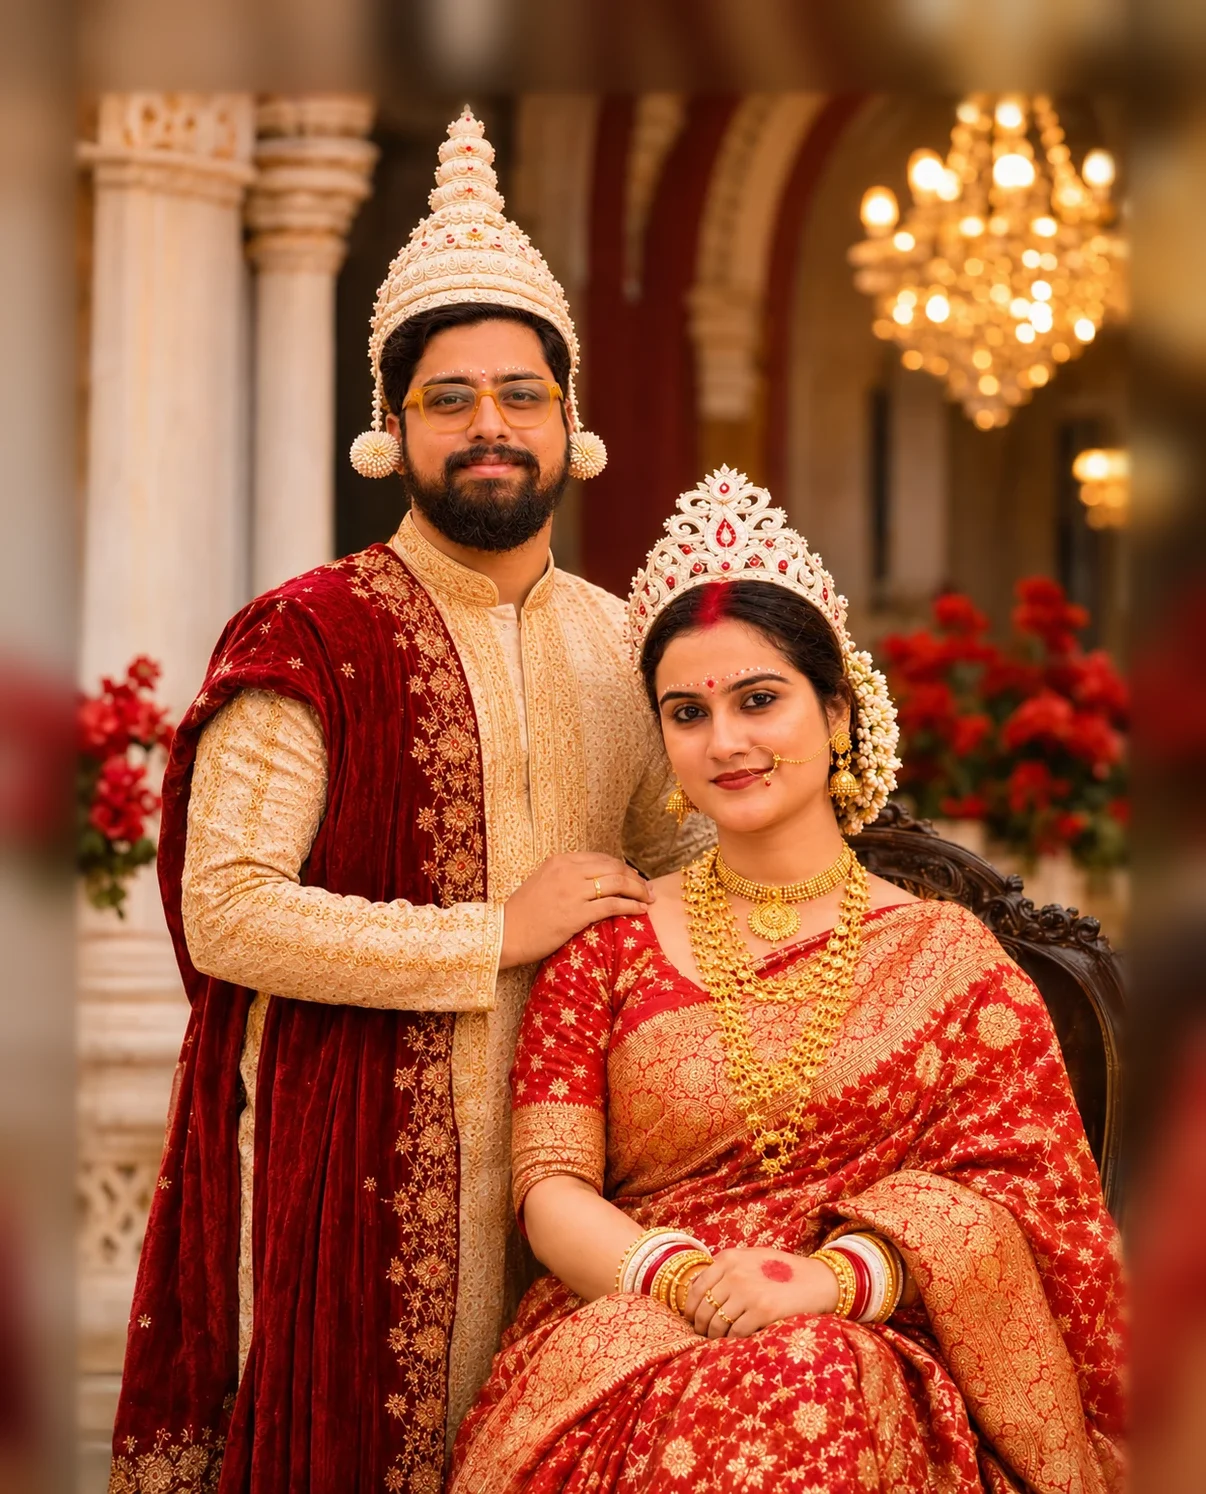
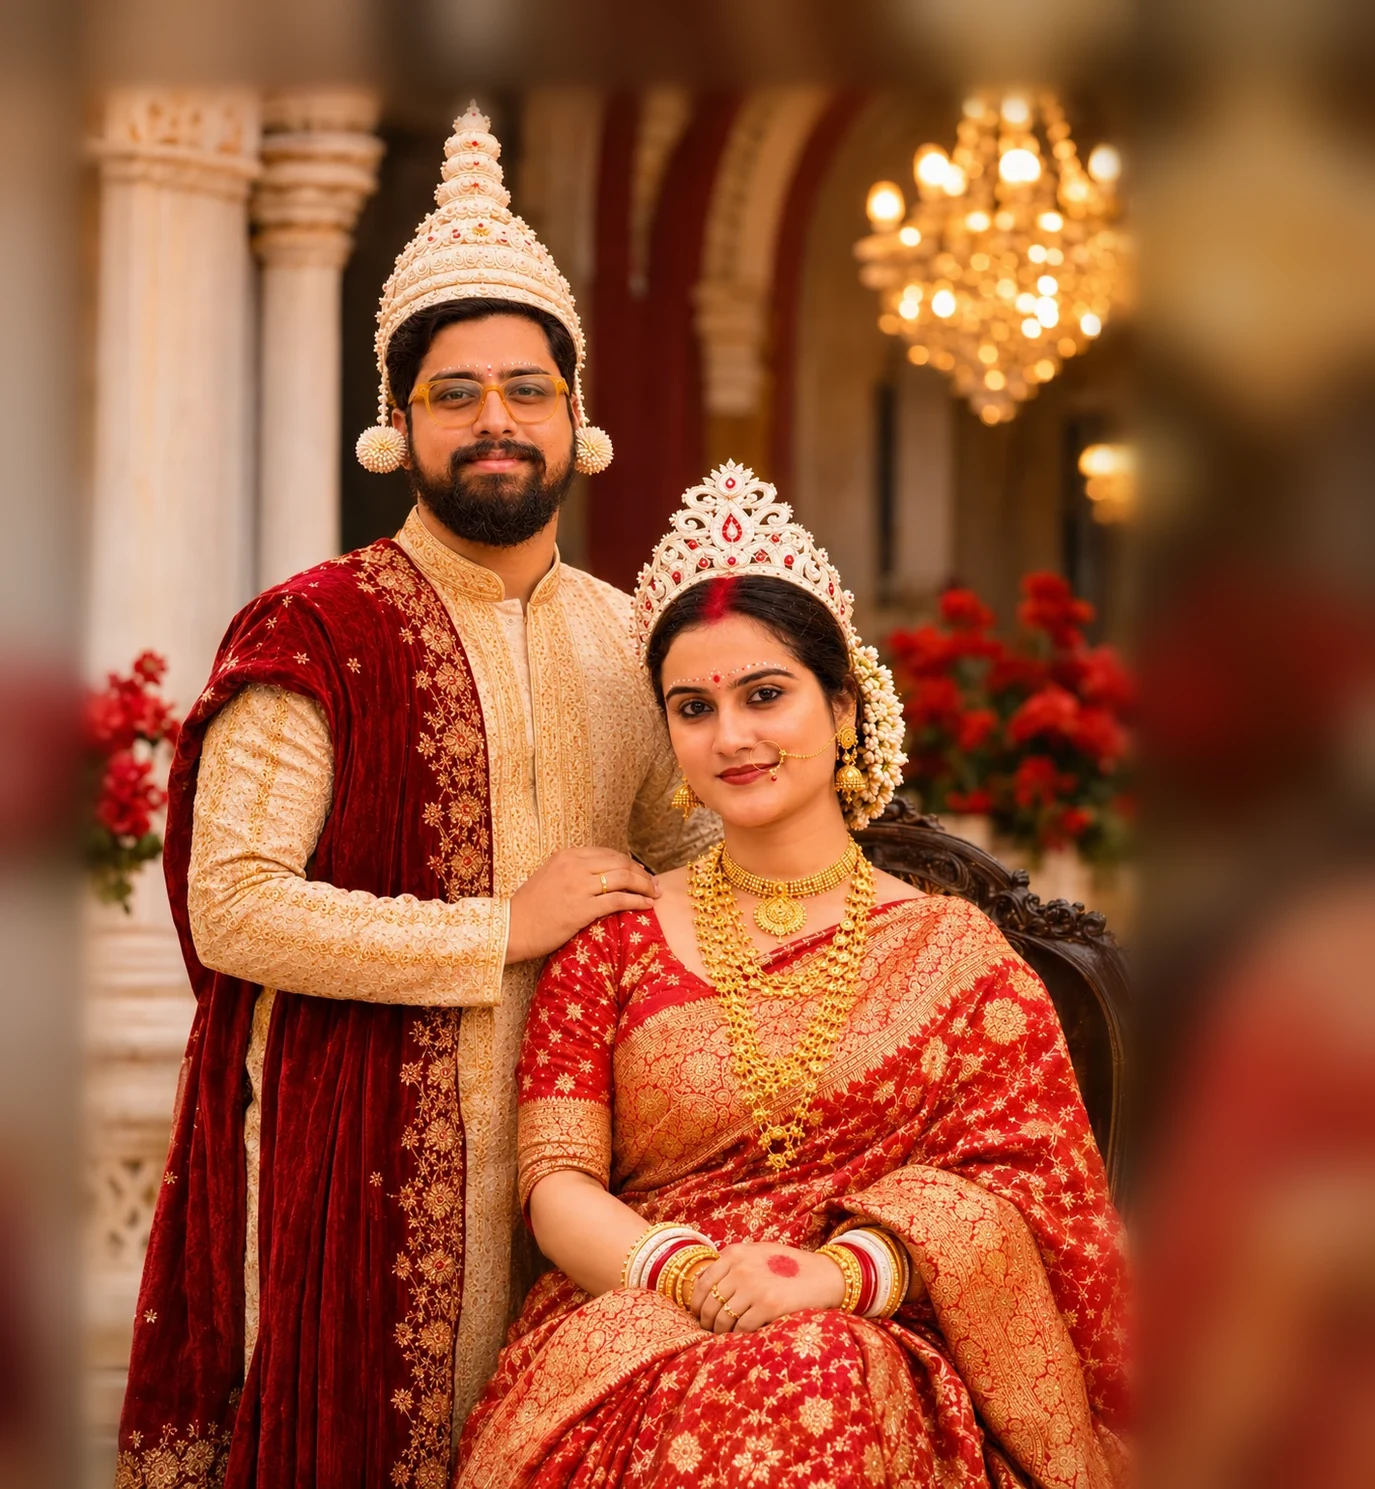
Hero: bigger frame showing crowns, faces and upper body; phone fixes for names, venues and gallery lamps
- couple-hero.webp re-framed so both crowns clear the roses and shoulders/necklace show
- hero frame larger on desktop and phone
- phone: Gourab & Shreya centred again, wedding venue above reception, date line balanced
- phone: gallery track has top room so the picture lamp above tall frames is not clipped

diff --git a/src/styles/style.css b/src/styles/style.css
@@ -1230,7 +1230,7 @@ html.has-cursor canvas {
 }
 
 .frame--hero {
-  width: clamp(300px, 39vw, 680px);
+  width: clamp(320px, min(45vw, 86vh), 800px);
 }
 
 .frame__photo {
@@ -4179,8 +4179,13 @@ html.has-cursor canvas {
 
   .frame--hero {
     order: 1;
-    width: min(94vw, 420px);
+    width: min(100vw, 480px);
     margin: 6px 0 10px;
+  }
+
+  .hero__name--l,
+  .hero__name--r {
+    justify-self: center;
   }
 
   .hero__name {
@@ -4371,7 +4376,7 @@ html.has-cursor canvas {
   }
 
   .gallery__track {
-    padding: 24px 12vw 16px;
+    padding: 62px 12vw 16px;
     gap: 36px;
   }
 
@@ -4552,4 +4557,14 @@ html.has-cursor canvas {
 .is-lite [class*="music"] {
   -webkit-backdrop-filter: none;
   backdrop-filter: none;
+}
+/* Venues: wedding on top, reception below on phones */
+@media (max-width: 760px) {
+  .venue__card .venue__when {
+    text-wrap: balance;
+  }
+
+  .venue__duo {
+    grid-template-columns: 1fr;
+  }
 }
